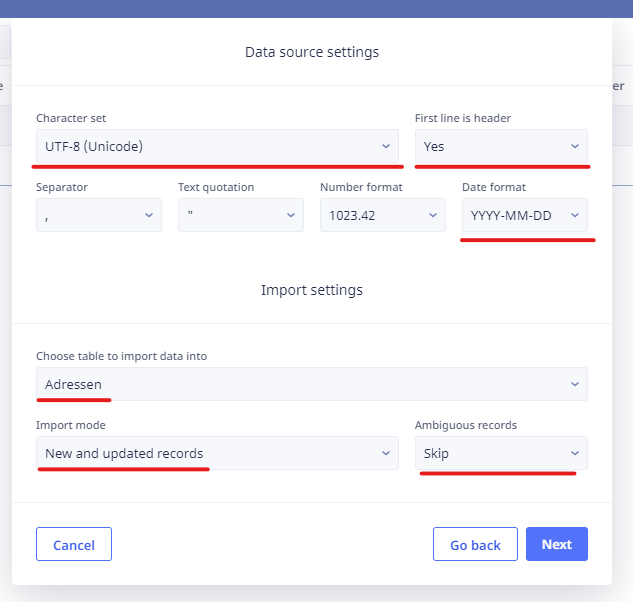
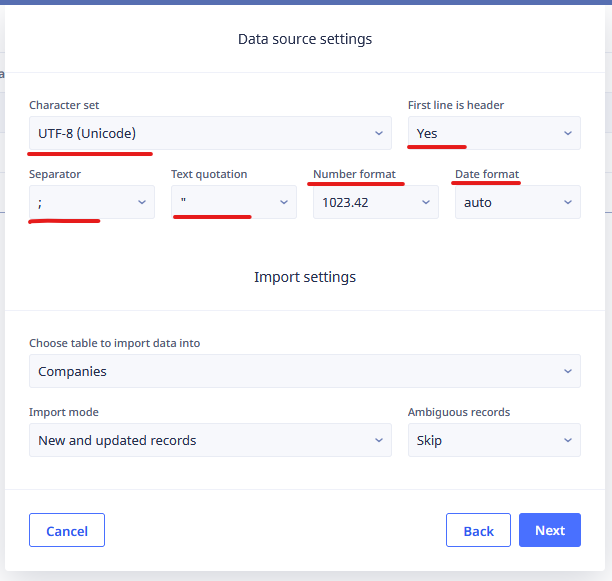
edited ninox new db

diff --git a/Product_documentations/ninox/creating_database.md b/Product_documentations/ninox/creating_database.md
@@ -13,12 +13,12 @@ This is a step by step guide on how to use the existing template to create a new
 
 1. Open the Ninox database.
 2. Navigate to the `Template` tab.
-3. RIght click the `Template` database.
+3. Right click the desired template database.
 4. Click `Create backup`.
 
 ![Template database](../../images/template_database.png)
 
-5. Uncheck the all the checkboxes and click ok.
+5. Uncheck all the checkboxes and click ok.
 
 ![Template database](../../images/template_database_2.png)
 
@@ -33,7 +33,7 @@ This is a step by step guide on how to use the existing template to create a new
 
 ## Uploading Steps
 
-1. Open the Ninox team page where you want to upload the database.
+1. Open the Ninox team page where you want to upload the database or create a new team in the UMS.
 2. Click the `Import archive` button.
 3. Enter the new name of the database.
 4. Click `Choose file` and select the backup you just downloaded.
@@ -84,9 +84,7 @@ This is a step by step guide on how to use the existing template to create a new
 
 ### Editing qualifiers
 
-Since each database and projects may be different, you need to edit the qualifiers to match the project. There are currently 2 templates to choose from. Templates with separate `Qualifiers` table and templates with `Qualifiers` directly in the `Adressen` table. The latter being less complex and easier to use.
-
-#### Editing `Qualifiers` in the `Adressen` table
+Since each database and projects may be different, you need to edit the qualifiers to match the project.
 
 1. Click the `Tool` icon and then navigate to the `Adressen` table.
 2. Click the `Settings` icon and then click `Edit fields`.
@@ -94,33 +92,10 @@ Since each database and projects may be different, you need to edit the qualifie
 ![Template database](../../images/template_database_21.png)
 
 3. Here you can drag new items from the right to left to create new fields.
-4. You can editing the fields in question by clicking on them **(on the left side)**.
+4. You can edit the fields in question by clicking on them **(on the left side)**.
 5. The below image shows the `Salutations` dropdown item field.
 
 ![Template database](../../images/template_database_22.png)
 
 > [!WARNING]
 > In the next section we will go over how to import new data into the database, there it's mentioned that the `dropdown values` in the CSV file need to be the exact same as the ones in the database. In this example if the salutations in the CSV file are `Mr` and `Ms` and not `Herr` and `Frau` then you need to change the `dropdown values` here to match that.
-
-#### Editing `Qualifiers` in the `Qualifiers` table
-
-1. Click the `Tool` icon and then navigate to the `Qualifiers` table.
-2. Click the `Settings` icon and then click `Edit fields`.
-3. As before you can drag new items from the right to left to create new fields.
-4. You can editing the fields in question by clicking on them **(on the left side)**.
-
-#### Editing `Qualifiers` in the `Adressen` `View`
-
-1. Click the `Tool` icon and then navigate to the `Adressen` table.
-2. Click on one of the contacts to open the `View`.
-
-> [!TIP] If there are no contacts in the address book, then you need to add one.
-
-![Template database](../../images/template_database_23.png)
-
-3. Clicking on the tool icon in the view will make the fields editable and draggable.
-
-> [!TIP]
-> In the bottom navigation bar, you can see that you can edit fields, add fields, formulas, layout elements, link to and from other tables and create a sub table.
-
-![Template database](../../images/template_database_24.png)

diff --git a/Product_documentations/ninox/managing_data.md b/Product_documentations/ninox/managing_data.md
@@ -21,7 +21,7 @@ Importing data into the Ninox database allows you to quickly populate the Addres
 3. Click `Next` and select the CSV file you want to import. Note that the data must be in CSV format. Ensure that the CSV file contains the necessary contact information.
 
 > [!NOTE]
-> It's essential to ensure that the data in the CSV file matches the expected format in Ninox. Additionally, pay attention to the date formats, as they need to match between the CSV file and the Ninox database.
+> It's essential to ensure that the data in the CSV file matches the expected format in Ninox. Additionally, pay attention to the **date** and **number** formats in the CSV file and make sure to select the according format in Ninox, as they need to match between the CSV file and the Ninox database.
 
 ![Template database](../../images/template_database_13.png)
 
@@ -42,7 +42,7 @@ Importing data into the Ninox database allows you to quickly populate the Addres
 
 5. Click `Next` to preview the changes made by the import process. Review the preview carefully to ensure that the data is correctly aligned with the desired fields in the Ninox database.
 
-6. Verify that the dates are correctly imported and displayed in the preview. Pay attention to the date format, as Ninox uses your system's default settings. Even if you specified `yyyy-mm-dd` in the import wizard, the dates may be displayed as `dd-mm-yyyy` in Ninox. 
+6. Verify that the dates are correctly imported and displayed in the preview. Pay attention to the date format, as Ninox uses your system's default settings. Even if you specified `yyyy-mm-dd` in the import wizard, the dates may be displayed as `dd-mm-yyyy` in Ninox.
 
 ![Template database](../../images/template_database_17.png)
 
@@ -89,5 +89,3 @@ To remove a record from the database, follow these steps:
 
 > [!NOTE]
 > Exercise caution when deleting records, as the deletion process is irreversible. Make sure to review and confirm the deletion before proceeding.
-
-

diff --git a/Product_documentations/ninox/database_structure.md b/Product_documentations/ninox/database_structure.md
@@ -41,8 +41,7 @@ The Address table serves as a repository of contact information provided by clie
 > There are more fields that are fixed, but these are the examples
 
 > ![Contacts](../../images/ninox_database_docs/structure_5.png)
-In the Address table view, you would see these fields
-
+> In the Address table view, you would see these fields
 
 In addition to the consistent fields, there are contact details specific to each lead, including:
 
@@ -61,19 +60,13 @@ In addition to the consistent fields, there are contact details specific to each
 > Depending on the data structure we receive from the client, these fields may also vary
 
 > ![Contacts](../../images/ninox_database_docs/structure_6.png)
-In the Address table view, you would see these fields
-
-## Qualifiers
-
-Qualifiers are fields used by consultants to assess the relevance or interest level of the contacts. These qualifiers may either be direct columns within the Address table or separate tables connected through relationships, depending on their complexity and variability across clients.
+> In the Address table view, you would see these fields
 
 ## Contacts Table
-
 
 The Contacts table is used to capture each interaction made with the leads. It is connected to the Address table through a relationship. Whenever a consultant uses the contact button in the Address table view, a new contact entry is created in the Contacts table. This enables tracking and storing of all interactions related to a specific contact.
 
 ![Contacts](../../images/ninox_database_docs/structure_4.png)
-
 
 ## Meetings Subtable
 
